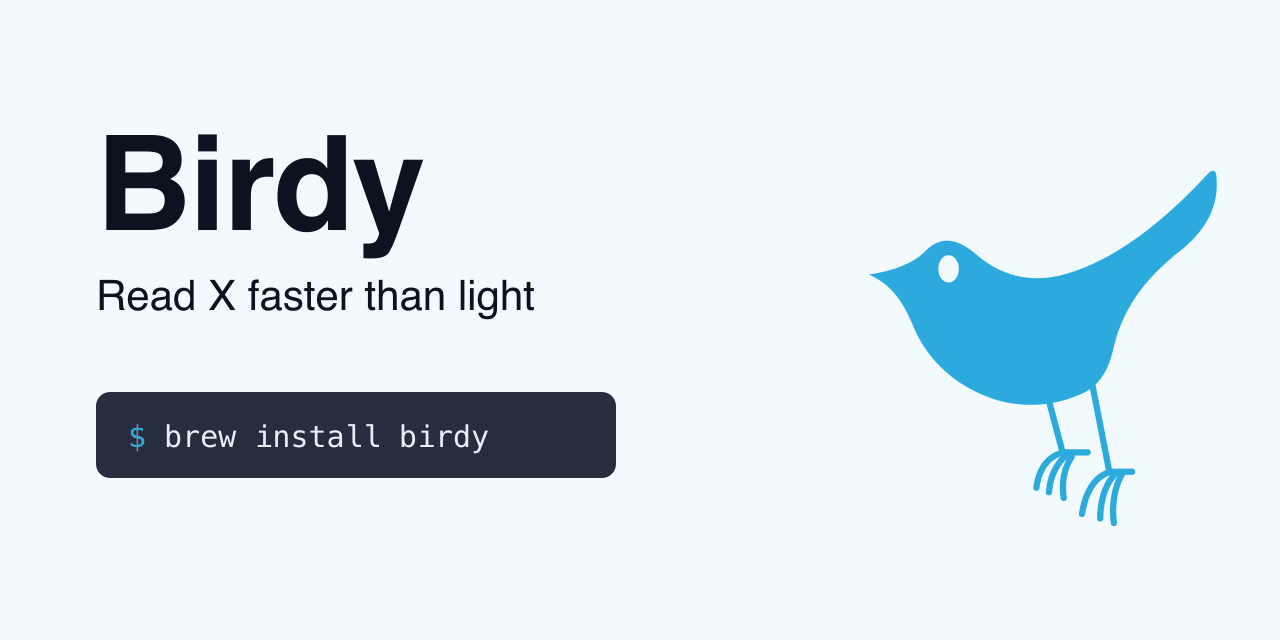
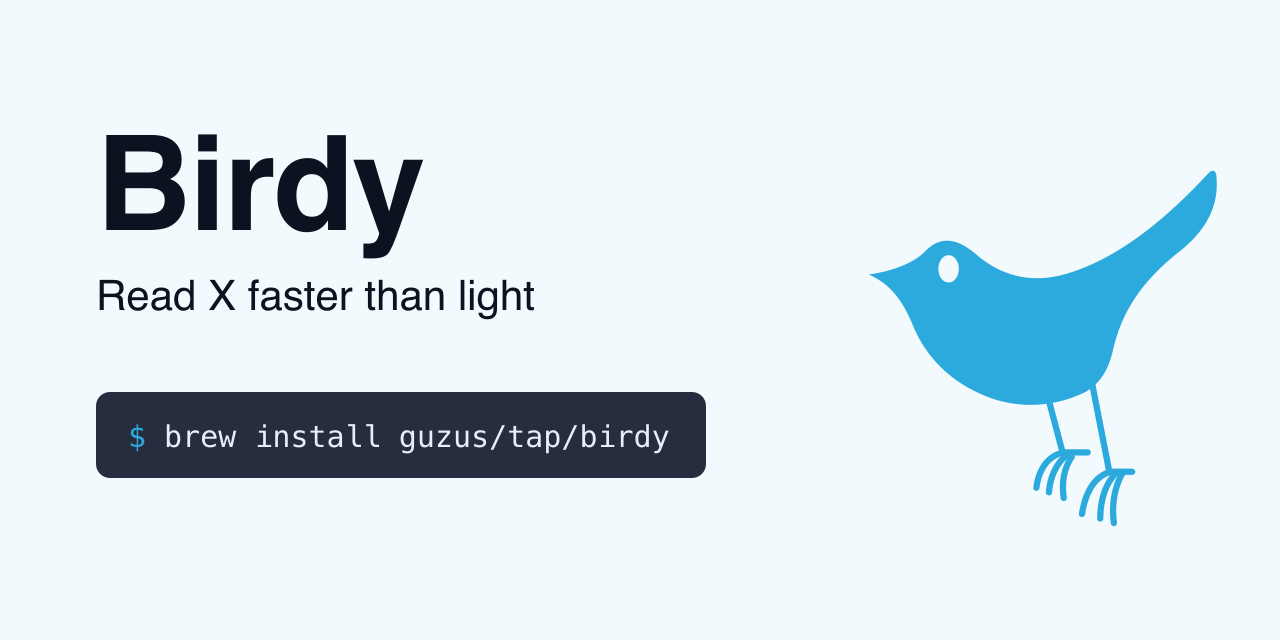
docs: make the tap-qualified name the only Homebrew install
`brew install birdy` was documented as the install after `brew tap`, with the
tap-qualified form as an aside. That ordering teaches a command that only works
once a prior step has run, and reads as if birdy is in homebrew-core when it is
not.

`brew install guzus/tap/birdy` taps on the way in, so the tap step is redundant
and is dropped. `brew trust` is not: Homebrew 6 gates formula loading from
non-official taps behind it (Trust.require_trusted_formula! raises
UntrustedTapError, and HOMEBREW_REQUIRE_TAP_TRUST is the default), and
`brew trust guzus/tap` resolves a tap that has not been added yet — verified
against a tap name with no local checkout — so it can come first.

The hero card carried `brew install birdy` too. Its terminal chip widens from
520 to 610 to fit the longer command at the same 30px Menlo.

Changed region(s): [[0.3125, 0.5938, 0.5625, 0.75]]

diff --git a/README.md b/README.md
@@ -11,7 +11,7 @@ One Go binary. No Node runtime, no `node_modules`, nothing to install alongside
 it.
 
 ```bash
-brew tap guzus/tap && brew trust guzus/tap && brew install birdy
+brew trust guzus/tap && brew install guzus/tap/birdy
 ```
 
 birdy began as a proxy in front of the [bird](https://github.com/steipete/bird)
@@ -350,16 +350,20 @@ NordVPN service credentials are different from your account login — find them 
 ### Homebrew
 
 ```bash
-brew tap guzus/tap
-brew trust guzus/tap      # Homebrew requires trusting third-party taps
-brew install birdy
+brew trust guzus/tap                 # Homebrew refuses to load third-party taps until trusted
+brew install guzus/tap/birdy
 ```
 
-Or in one line, still after trusting: `brew install guzus/tap/birdy`.
+The tap-qualified name is the whole install: it taps `guzus/homebrew-tap` on the
+way in, so there is no separate `brew tap` step. Upgrades are plain
+`brew upgrade birdy` once the formula is installed.
 
-`brew install birdy` on its own — with no tap — needs birdy to be in
-homebrew-core, which requires a level of notability the project has not reached
-yet. Until then the tap is the route.
+Trusting is not optional. Homebrew 6 raises `Refusing to load formula
+guzus/tap/birdy from untrusted tap guzus/tap` on install, and `brew trust`
+resolves a tap you have not added yet, which is why it comes first.
+
+The short `brew install birdy` is not offered: with no tap prefix Homebrew
+resolves it against homebrew-core, where birdy is not published.
 
 ### Script
 

diff --git a/docs/release-highlight.md b/docs/release-highlight.md
@@ -1,5 +1,5 @@
 <p align="center">
-  <img src="https://raw.githubusercontent.com/guzus/birdy/main/assets/birdy-hero.png" alt="Birdy — Read X faster than light. brew install birdy" width="760">
+  <img src="https://raw.githubusercontent.com/guzus/birdy/main/assets/birdy-hero.png" alt="Birdy — Read X faster than light. brew install guzus/tap/birdy" width="760">
 </p>
 
 Lightweight multi-account X/Twitter CLI. Store several auth tokens and rotate
@@ -7,7 +7,7 @@ between them automatically to spread rate-limit pressure. One Go binary — no
 Node runtime, no `node_modules`.
 
 ```bash
-brew tap guzus/tap && brew trust guzus/tap && brew install birdy
+brew trust guzus/tap && brew install guzus/tap/birdy
 # or: curl -fsSL https://raw.githubusercontent.com/guzus/birdy/main/install.sh | bash
 ```
 
